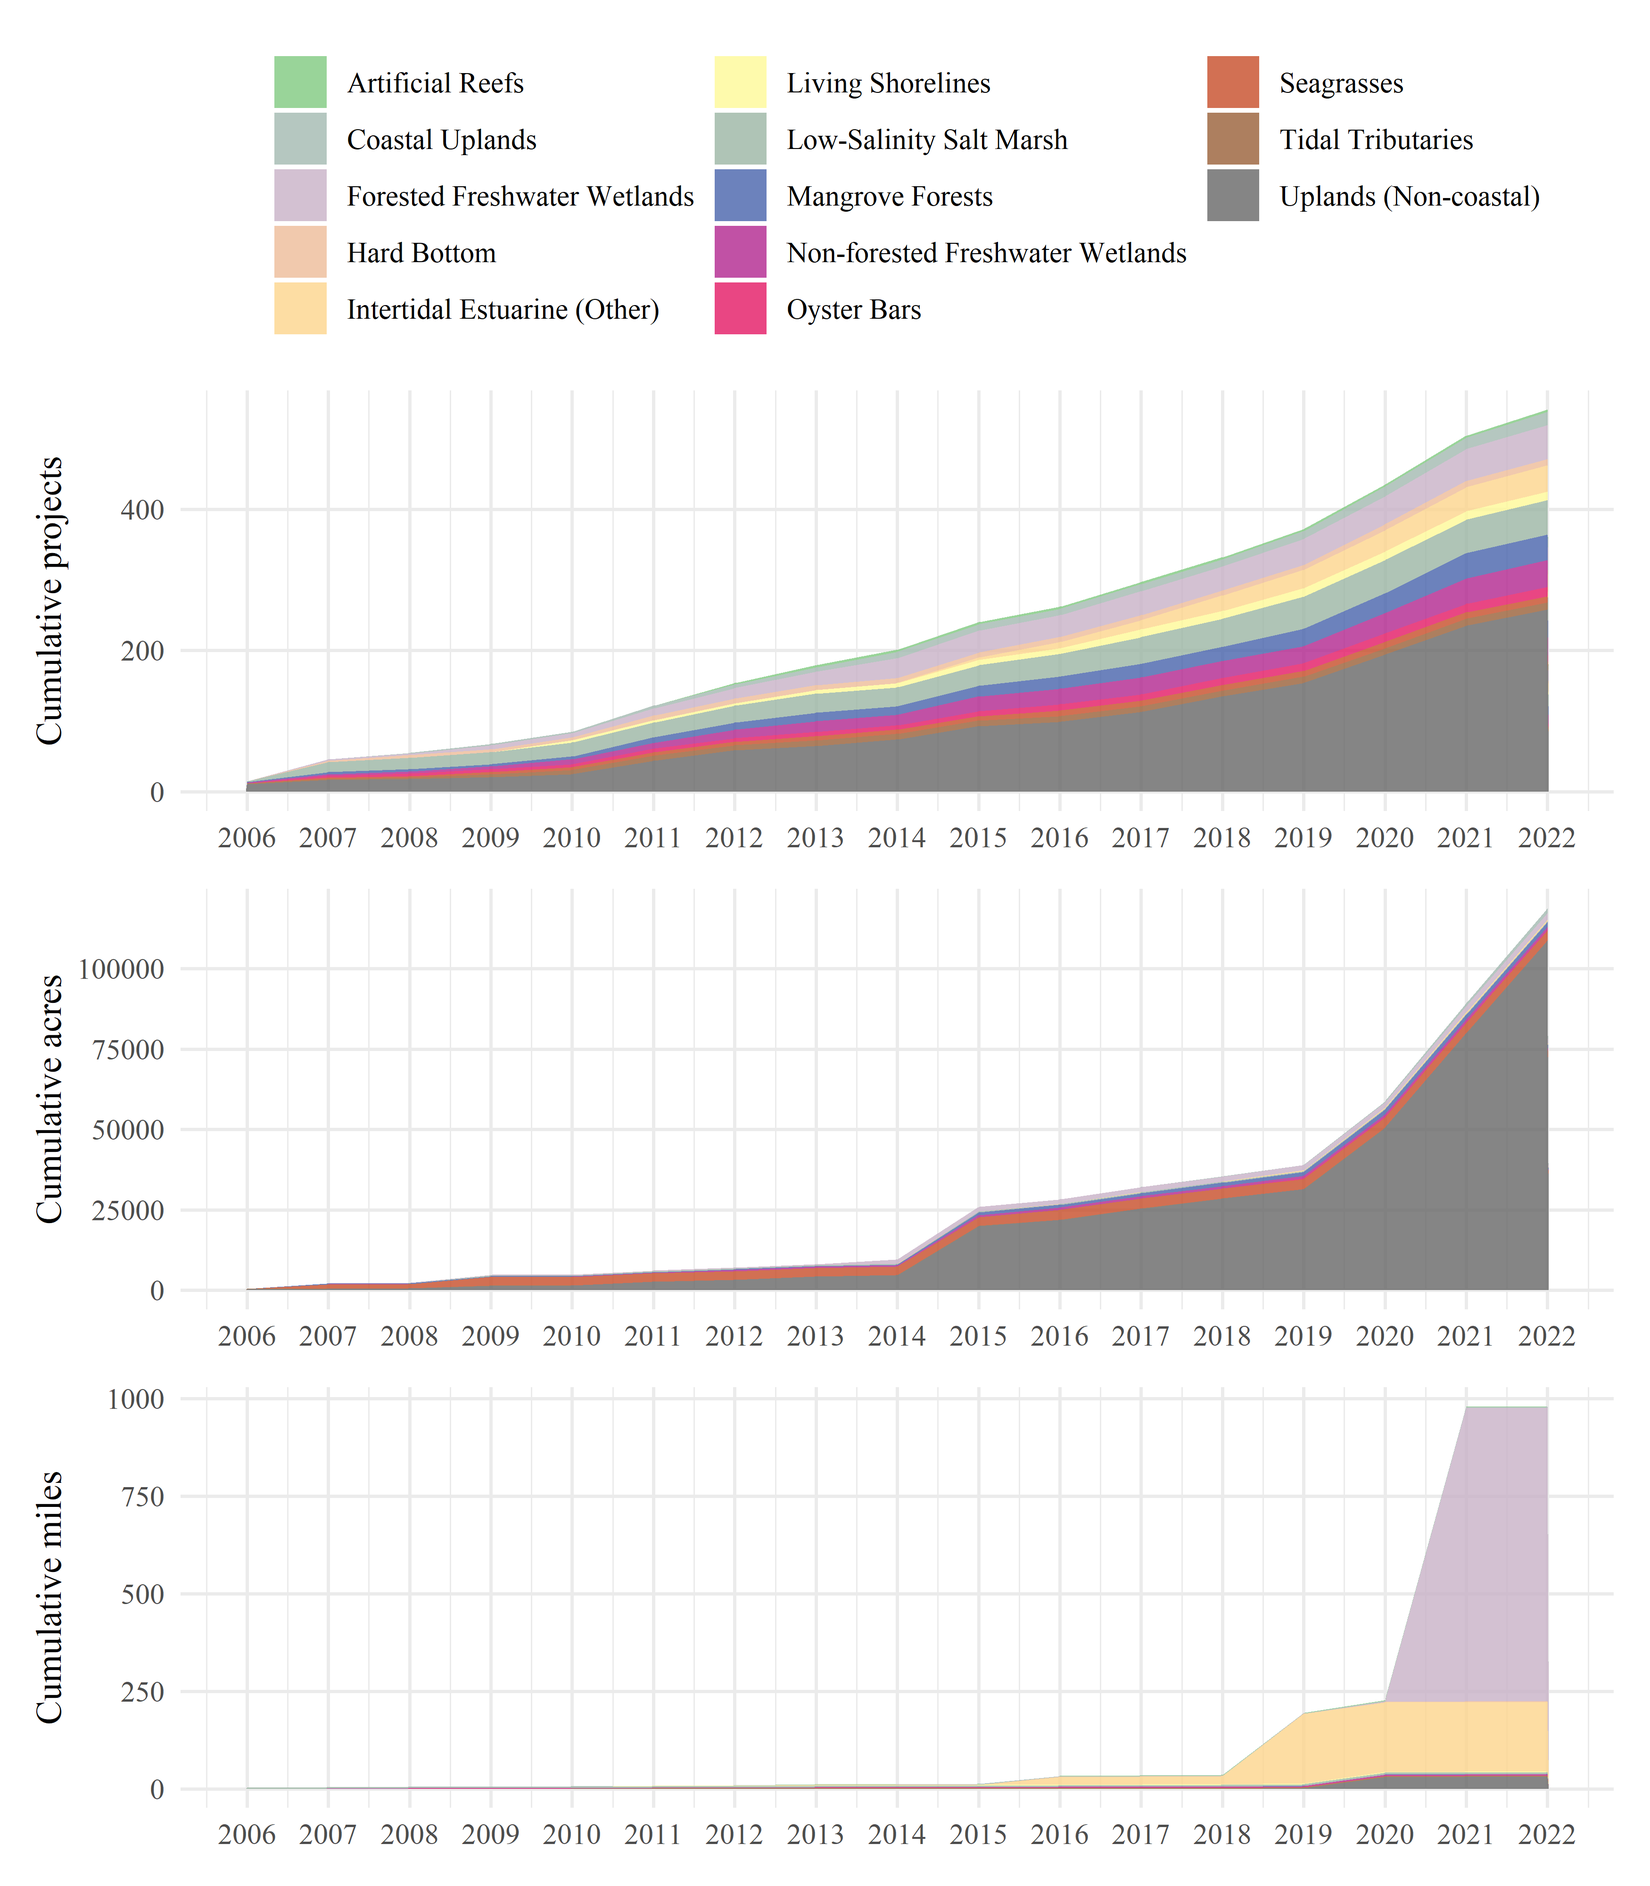
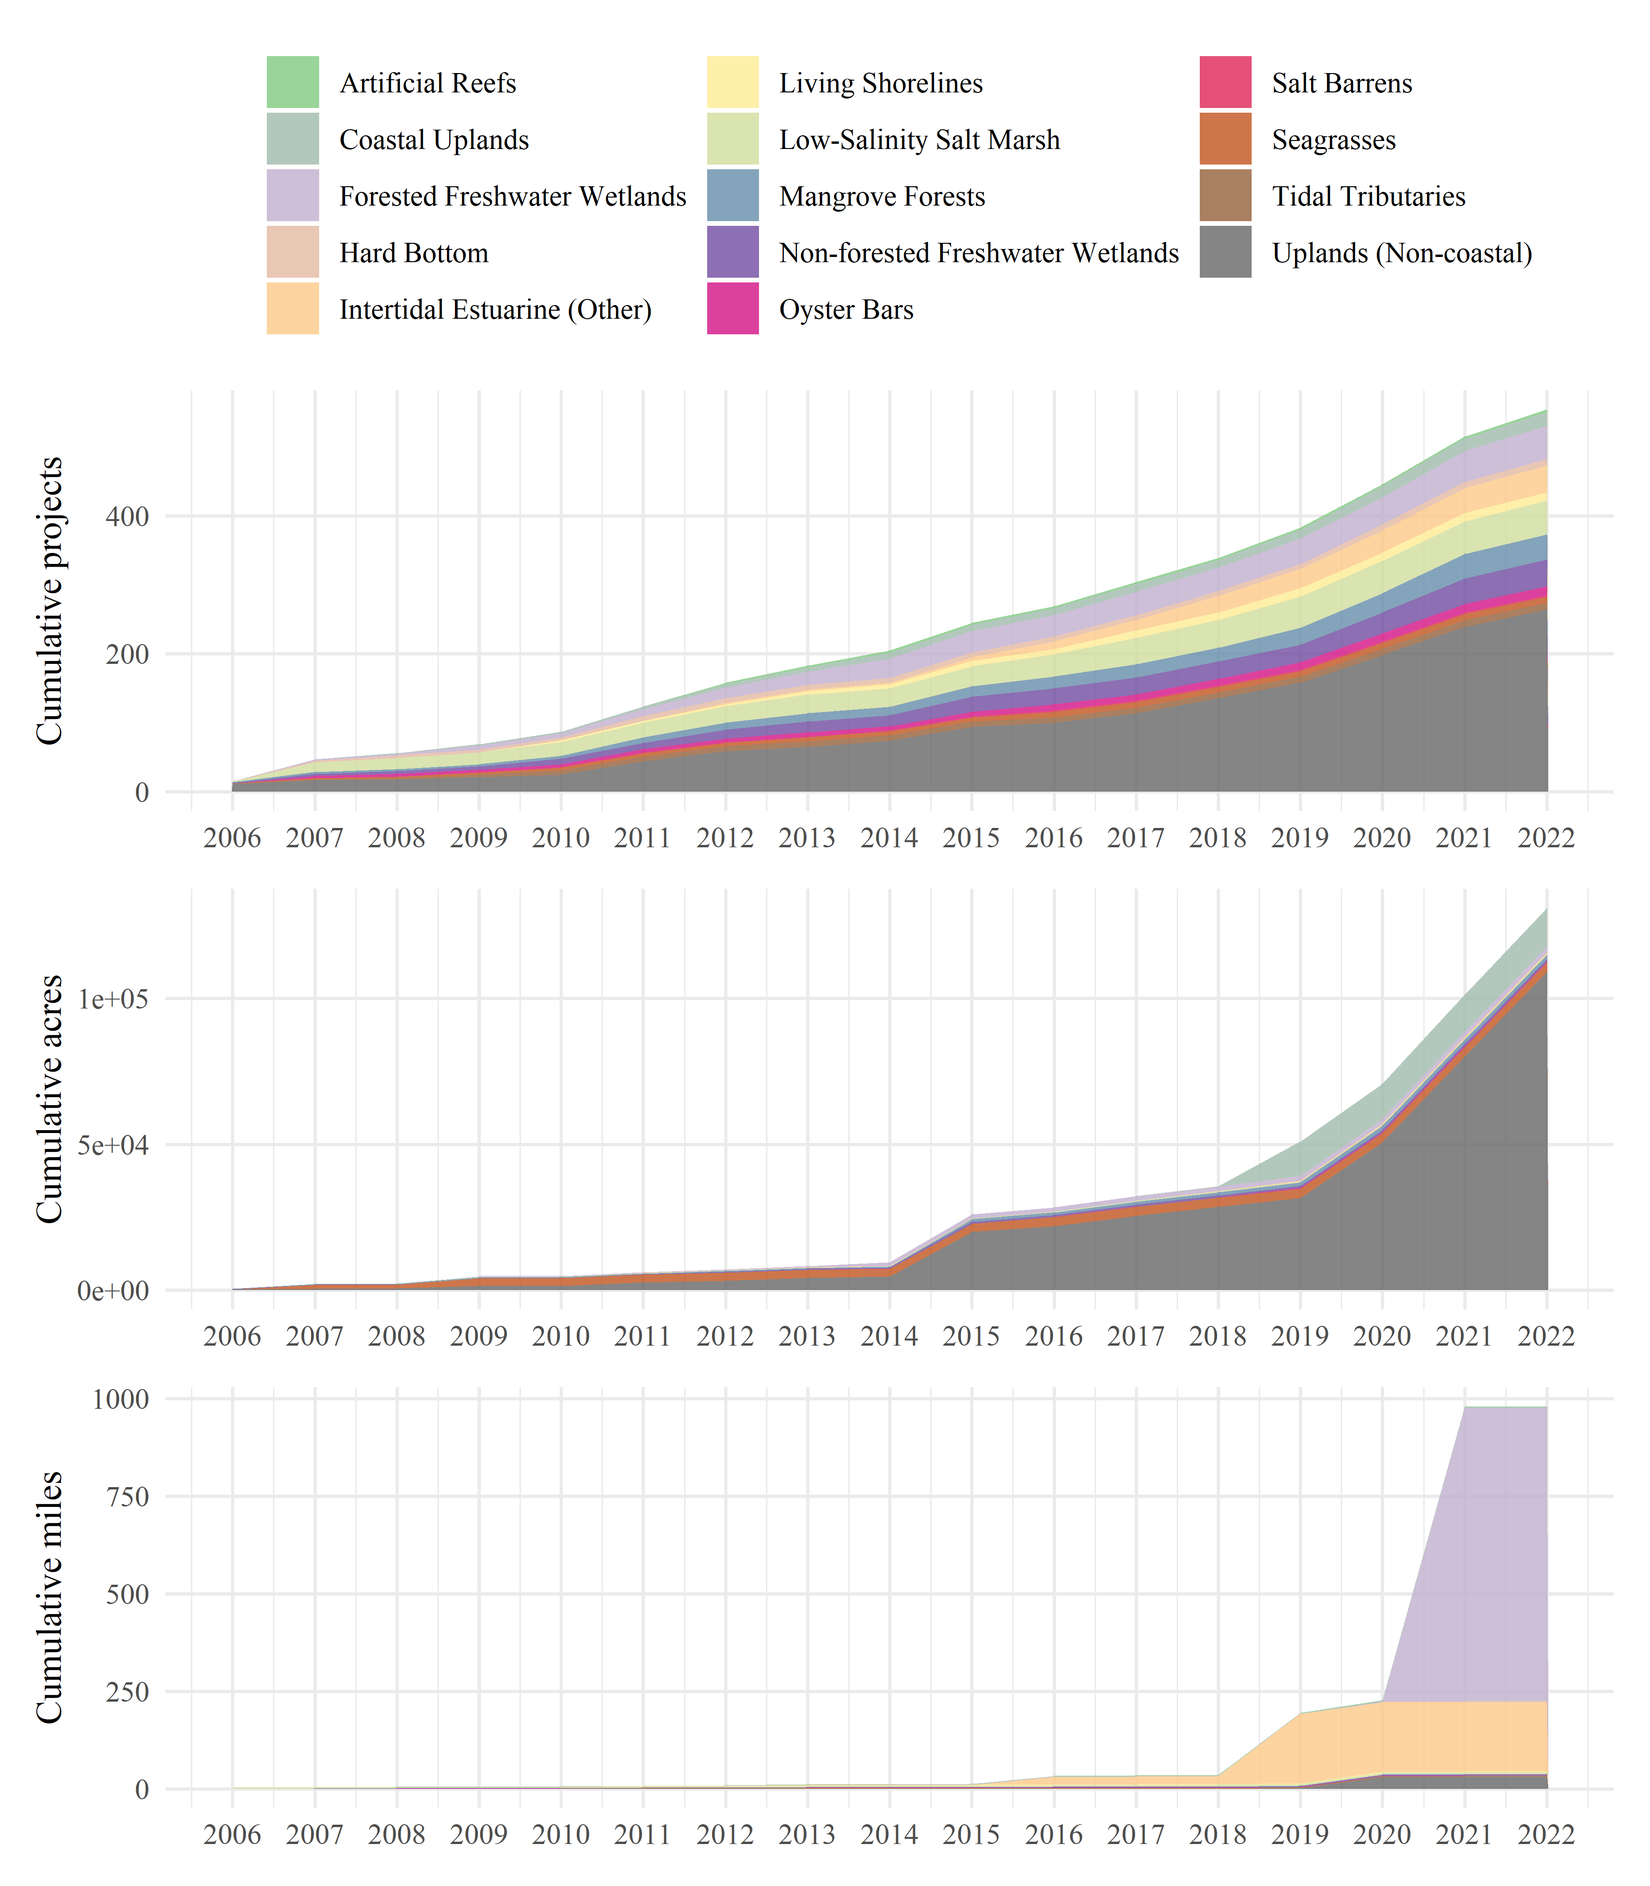
reproc with manual HMP habs

diff --git a/docs/summaries.html b/docs/summaries.html
@@ -7,7 +7,7 @@
 <meta name="viewport" content="width=device-width, initial-scale=1.0, user-scalable=yes">
 
 <meta name="author" content="Dr.&nbsp;Marcus Beck, mbeck@tbep.org">
-<meta name="dcterms.date" content="2022-12-09">
+<meta name="dcterms.date" content="2022-12-11">
 
 <title>GPRA summary</title>
 <style>
@@ -83,7 +83,7 @@ ul.task-list li input[type="checkbox"] {
     <div>
     <div class="quarto-title-meta-heading">Published</div>
     <div class="quarto-title-meta-contents">
-      <p class="date">December 9, 2022</p>
+      <p class="date">December 11, 2022</p>
     </div>
   </div>
   
@@ -101,8 +101,8 @@ ul.task-list li input[type="checkbox"] {
 <div class="cell-output-display">
 
 <h5 class="title anchored">Restoration and enhancement projects in Tampa Bay (2006-2022)</h5>
-<div id="htmlwidget-641e03565ba2912d7f08" class="reactable html-widget" style="width:auto;height:auto;"></div>
-<script type="application/json" data-for="htmlwidget-641e03565ba2912d7f08">{"x":{"tag":{"name":"Reactable","attribs":{"data":{"Category":["Artificial Reefs","Coastal Uplands","Forested Freshwater Wetlands","Hard Bottom","Intertidal Estuarine (Other)","Living Shorelines","Low-Salinity Salt Marsh","Mangrove Forests","Non-forested Freshwater Wetlands","Oyster Bars","Seagrasses","Tidal Tributaries","Uplands (Non-coastal)","Mix/undocumented"],"tot":[3,19,48,9,37,12,49,36,38,13,9,10,258,19],"Restoration, Acres":[0,929.65,1732.79,23.18,434.12,1.18,297.76,1229.51,836.99,300.83,3097.1,53.1,75258.81,11993.82],"Restoration, Miles":[0.599431818181818,2.13920454545455,752.221590909091,1.32859848484848,178.317007575758,1.72272727272727,4.85416666666667,1.08371212121212,2.83583333333333,0.79592803030303,0.788257575757576,1.57765151515152,30.5416666666667,0.201439393939394],"Enhancement, Acres":[0,580,302.34,0,0.5,0,0,10,52.37,0,0,0,33553.55,72],"Enhancement, Miles":[0,0,0,0,0.0284090909090909,0,0,0,0,0,0,0,0,0]},"columns":[{"id":"Category","name":"Habitat","type":"character","resizable":true,"format":{"cell":{"digits":0,"separators":true},"aggregated":{"digits":0,"separators":true}},"footer":"Total","minWidth":200,"style":{"fontSize":14,"fontFamily":"roboto"},"headerStyle":{"fontSize":14,"fontFamily":"roboto"},"footerStyle":{"fontWeight":"bold","fontSize":14,"fontFamily":"roboto"},"className":"sticky left-col-1-bord","headerClassName":"sticky left-col-1-bord","footerClassName":"sticky left-col-1-bord"},{"id":"tot","name":"Total projects","type":"numeric","resizable":true,"format":{"cell":{"digits":0,"separators":true},"aggregated":{"digits":0,"separators":true}},"footer":"560","minWidth":120,"style":{"fontSize":14,"fontFamily":"roboto"},"headerStyle":{"fontSize":14,"fontFamily":"roboto"},"footerStyle":{"fontWeight":"bold","fontSize":14,"fontFamily":"roboto"}},{"id":"Restoration, Acres","name":"Restoration, Acres","type":"numeric","resizable":true,"format":{"cell":{"digits":0,"separators":true},"aggregated":{"digits":0,"separators":true}},"footer":"96,189","minWidth":150,"style":{"fontSize":14,"fontFamily":"roboto"},"headerStyle":{"fontSize":14,"fontFamily":"roboto"},"footerStyle":{"fontWeight":"bold","fontSize":14,"fontFamily":"roboto"}},{"id":"Restoration, Miles","name":"Restoration, Miles","type":"numeric","resizable":true,"format":{"cell":{"digits":0,"separators":true},"aggregated":{"digits":0,"separators":true}},"footer":"979","minWidth":150,"style":{"fontSize":14,"fontFamily":"roboto"},"headerStyle":{"fontSize":14,"fontFamily":"roboto"},"footerStyle":{"fontWeight":"bold","fontSize":14,"fontFamily":"roboto"}},{"id":"Enhancement, Acres","name":"Enhancement, Acres","type":"numeric","resizable":true,"format":{"cell":{"digits":0,"separators":true},"aggregated":{"digits":0,"separators":true}},"footer":"34,571","minWidth":150,"style":{"fontSize":14,"fontFamily":"roboto"},"headerStyle":{"fontSize":14,"fontFamily":"roboto"},"footerStyle":{"fontWeight":"bold","fontSize":14,"fontFamily":"roboto"}},{"id":"Enhancement, Miles","name":"Enhancement, Miles","type":"numeric","resizable":true,"format":{"cell":{"digits":0,"separators":true},"aggregated":{"digits":0,"separators":true}},"footer":"0","minWidth":150,"style":{"fontSize":14,"fontFamily":"roboto"},"headerStyle":{"fontSize":14,"fontFamily":"roboto"},"footerStyle":{"fontWeight":"bold","fontSize":14,"fontFamily":"roboto"}}],"defaultPageSize":14,"showPageSizeOptions":false,"highlight":true,"nowrap":true,"dataKey":"22243511255cd563301aaad9b7170413"},"children":[]},"class":"reactR_markup"},"evals":[],"jsHooks":[]}</script>
+<div id="htmlwidget-8e4743606ee41f16e889" class="reactable html-widget" style="width:auto;height:auto;"></div>
+<script type="application/json" data-for="htmlwidget-8e4743606ee41f16e889">{"x":{"tag":{"name":"Reactable","attribs":{"data":{"Category":["Artificial Reefs","Coastal Uplands","Forested Freshwater Wetlands","Hard Bottom","Intertidal Estuarine (Other)","Living Shorelines","Low-Salinity Salt Marsh","Mangrove Forests","Non-forested Freshwater Wetlands","Oyster Bars","Salt Barrens","Seagrasses","Tidal Tributaries","Uplands (Non-coastal)","Mix/undocumented"],"tot":[3,21,48,9,39,12,49,36,39,13,2,9,10,264,6],"Restoration, Acres":[0,12639.65,1732.79,23.18,465.74,1.18,297.76,1229.51,867.99,300.83,31,3097.1,53.1,75413.01,36],"Restoration, Miles":[0.599431818181818,2.13920454545455,752.221590909091,1.32859848484848,178.317007575758,1.72272727272727,4.85416666666667,1.08371212121212,2.83583333333333,0.79592803030303,0,0.788257575757576,1.57765151515152,30.5416666666667,0.201439393939394],"Enhancement, Acres":[0,580,302.34,0,0.5,0,0,10,52.37,0,0,0,0,33625.55,0],"Enhancement, Miles":[0,0,0,0,0.0284090909090909,0,0,0,0,0,0,0,0,0,0]},"columns":[{"id":"Category","name":"Habitat","type":"character","resizable":true,"format":{"cell":{"digits":0,"separators":true},"aggregated":{"digits":0,"separators":true}},"footer":"Total","minWidth":200,"style":{"fontSize":14,"fontFamily":"roboto"},"headerStyle":{"fontSize":14,"fontFamily":"roboto"},"footerStyle":{"fontWeight":"bold","fontSize":14,"fontFamily":"roboto"},"className":"sticky left-col-1-bord","headerClassName":"sticky left-col-1-bord","footerClassName":"sticky left-col-1-bord"},{"id":"tot","name":"Total projects","type":"numeric","resizable":true,"format":{"cell":{"digits":0,"separators":true},"aggregated":{"digits":0,"separators":true}},"footer":"560","minWidth":120,"style":{"fontSize":14,"fontFamily":"roboto"},"headerStyle":{"fontSize":14,"fontFamily":"roboto"},"footerStyle":{"fontWeight":"bold","fontSize":14,"fontFamily":"roboto"}},{"id":"Restoration, Acres","name":"Restoration, Acres","type":"numeric","resizable":true,"format":{"cell":{"digits":0,"separators":true},"aggregated":{"digits":0,"separators":true}},"footer":"96,189","minWidth":150,"style":{"fontSize":14,"fontFamily":"roboto"},"headerStyle":{"fontSize":14,"fontFamily":"roboto"},"footerStyle":{"fontWeight":"bold","fontSize":14,"fontFamily":"roboto"}},{"id":"Restoration, Miles","name":"Restoration, Miles","type":"numeric","resizable":true,"format":{"cell":{"digits":0,"separators":true},"aggregated":{"digits":0,"separators":true}},"footer":"979","minWidth":150,"style":{"fontSize":14,"fontFamily":"roboto"},"headerStyle":{"fontSize":14,"fontFamily":"roboto"},"footerStyle":{"fontWeight":"bold","fontSize":14,"fontFamily":"roboto"}},{"id":"Enhancement, Acres","name":"Enhancement, Acres","type":"numeric","resizable":true,"format":{"cell":{"digits":0,"separators":true},"aggregated":{"digits":0,"separators":true}},"footer":"34,571","minWidth":150,"style":{"fontSize":14,"fontFamily":"roboto"},"headerStyle":{"fontSize":14,"fontFamily":"roboto"},"footerStyle":{"fontWeight":"bold","fontSize":14,"fontFamily":"roboto"}},{"id":"Enhancement, Miles","name":"Enhancement, Miles","type":"numeric","resizable":true,"format":{"cell":{"digits":0,"separators":true},"aggregated":{"digits":0,"separators":true}},"footer":"0","minWidth":150,"style":{"fontSize":14,"fontFamily":"roboto"},"headerStyle":{"fontSize":14,"fontFamily":"roboto"},"footerStyle":{"fontWeight":"bold","fontSize":14,"fontFamily":"roboto"}}],"defaultPageSize":15,"showPageSizeOptions":false,"highlight":true,"nowrap":true,"dataKey":"6718bb4f8e5fcefc56fa35773540316c"},"children":[]},"class":"reactR_markup"},"evals":[],"jsHooks":[]}</script>
 </div>
 </div>
 <p><br></p>
@@ -110,8 +110,8 @@ ul.task-list li input[type="checkbox"] {
 <div class="cell-output-display">
 
 <h5 class="title anchored">Restoration and enhancement projects in Tampa Bay (2022)</h5>
-<div id="htmlwidget-a8fa41793ca9a401d016" class="reactable html-widget" style="width:auto;height:auto;"></div>
-<script type="application/json" data-for="htmlwidget-a8fa41793ca9a401d016">{"x":{"tag":{"name":"Reactable","attribs":{"data":{"Category":["Artificial Reefs","Coastal Uplands","Forested Freshwater Wetlands","Hard Bottom","Intertidal Estuarine (Other)","Living Shorelines","Low-Salinity Salt Marsh","Mangrove Forests","Non-forested Freshwater Wetlands","Oyster Bars","Seagrasses","Tidal Tributaries","Uplands (Non-coastal)","Mix/undocumented"],"tot":[0,3,3,0,3,0,2,0,2,1,0,0,23,2],"Restoration, Acres":[0,0.5,0.05,0,0.64,0,0.05,0,0,0,0,0,1.25,0],"Restoration, Miles":[0,0,0,0,0,0,0.0852272727272727,0,0.0284090909090909,0.148011363636364,0,0,0,0],"Enhancement, Acres":[0,580,124,0,0,0,0,0,20,0,0,0,28848.95,72],"Enhancement, Miles":[0,0,0,0,0,0,0,0,0,0,0,0,0,0]},"columns":[{"id":"Category","name":"Habitat","type":"character","resizable":true,"format":{"cell":{"digits":0,"separators":true},"aggregated":{"digits":0,"separators":true}},"footer":"Total","minWidth":200,"style":{"fontSize":14,"fontFamily":"roboto"},"headerStyle":{"fontSize":14,"fontFamily":"roboto"},"footerStyle":{"fontWeight":"bold","fontSize":14,"fontFamily":"roboto"},"className":"sticky left-col-1-bord","headerClassName":"sticky left-col-1-bord","footerClassName":"sticky left-col-1-bord"},{"id":"tot","name":"Total projects","type":"numeric","resizable":true,"format":{"cell":{"digits":0,"separators":true},"aggregated":{"digits":0,"separators":true}},"footer":"39","minWidth":120,"style":{"fontSize":14,"fontFamily":"roboto"},"headerStyle":{"fontSize":14,"fontFamily":"roboto"},"footerStyle":{"fontWeight":"bold","fontSize":14,"fontFamily":"roboto"}},{"id":"Restoration, Acres","name":"Restoration, Acres","type":"numeric","resizable":true,"format":{"cell":{"digits":0,"separators":true},"aggregated":{"digits":0,"separators":true}},"footer":"2","minWidth":150,"style":{"fontSize":14,"fontFamily":"roboto"},"headerStyle":{"fontSize":14,"fontFamily":"roboto"},"footerStyle":{"fontWeight":"bold","fontSize":14,"fontFamily":"roboto"}},{"id":"Restoration, Miles","name":"Restoration, Miles","type":"numeric","resizable":true,"format":{"cell":{"digits":0,"separators":true},"aggregated":{"digits":0,"separators":true}},"footer":"0","minWidth":150,"style":{"fontSize":14,"fontFamily":"roboto"},"headerStyle":{"fontSize":14,"fontFamily":"roboto"},"footerStyle":{"fontWeight":"bold","fontSize":14,"fontFamily":"roboto"}},{"id":"Enhancement, Acres","name":"Enhancement, Acres","type":"numeric","resizable":true,"format":{"cell":{"digits":0,"separators":true},"aggregated":{"digits":0,"separators":true}},"footer":"29,645","minWidth":150,"style":{"fontSize":14,"fontFamily":"roboto"},"headerStyle":{"fontSize":14,"fontFamily":"roboto"},"footerStyle":{"fontWeight":"bold","fontSize":14,"fontFamily":"roboto"}},{"id":"Enhancement, Miles","name":"Enhancement, Miles","type":"numeric","resizable":true,"format":{"cell":{"digits":0,"separators":true},"aggregated":{"digits":0,"separators":true}},"footer":"0","minWidth":150,"style":{"fontSize":14,"fontFamily":"roboto"},"headerStyle":{"fontSize":14,"fontFamily":"roboto"},"footerStyle":{"fontWeight":"bold","fontSize":14,"fontFamily":"roboto"}}],"defaultPageSize":14,"showPageSizeOptions":false,"highlight":true,"nowrap":true,"dataKey":"40ec7f587f4343864278c12c9a3f75e8"},"children":[]},"class":"reactR_markup"},"evals":[],"jsHooks":[]}</script>
+<div id="htmlwidget-eb6b3e5aab0a4fd4153e" class="reactable html-widget" style="width:auto;height:auto;"></div>
+<script type="application/json" data-for="htmlwidget-eb6b3e5aab0a4fd4153e">{"x":{"tag":{"name":"Reactable","attribs":{"data":{"Category":["Artificial Reefs","Coastal Uplands","Forested Freshwater Wetlands","Hard Bottom","Intertidal Estuarine (Other)","Living Shorelines","Low-Salinity Salt Marsh","Mangrove Forests","Non-forested Freshwater Wetlands","Oyster Bars","Salt Barrens","Seagrasses","Tidal Tributaries","Uplands (Non-coastal)","Mix/undocumented"],"tot":[0,3,3,0,3,0,2,0,2,1,0,0,0,25,0],"Restoration, Acres":[0,0.5,0.05,0,0.64,0,0.05,0,0,0,0,0,0,1.25,0],"Restoration, Miles":[0,0,0,0,0,0,0.0852272727272727,0,0.0284090909090909,0.148011363636364,0,0,0,0,0],"Enhancement, Acres":[0,580,124,0,0,0,0,0,20,0,0,0,0,28920.95,0],"Enhancement, Miles":[0,0,0,0,0,0,0,0,0,0,0,0,0,0,0]},"columns":[{"id":"Category","name":"Habitat","type":"character","resizable":true,"format":{"cell":{"digits":0,"separators":true},"aggregated":{"digits":0,"separators":true}},"footer":"Total","minWidth":200,"style":{"fontSize":14,"fontFamily":"roboto"},"headerStyle":{"fontSize":14,"fontFamily":"roboto"},"footerStyle":{"fontWeight":"bold","fontSize":14,"fontFamily":"roboto"},"className":"sticky left-col-1-bord","headerClassName":"sticky left-col-1-bord","footerClassName":"sticky left-col-1-bord"},{"id":"tot","name":"Total projects","type":"numeric","resizable":true,"format":{"cell":{"digits":0,"separators":true},"aggregated":{"digits":0,"separators":true}},"footer":"39","minWidth":120,"style":{"fontSize":14,"fontFamily":"roboto"},"headerStyle":{"fontSize":14,"fontFamily":"roboto"},"footerStyle":{"fontWeight":"bold","fontSize":14,"fontFamily":"roboto"}},{"id":"Restoration, Acres","name":"Restoration, Acres","type":"numeric","resizable":true,"format":{"cell":{"digits":0,"separators":true},"aggregated":{"digits":0,"separators":true}},"footer":"2","minWidth":150,"style":{"fontSize":14,"fontFamily":"roboto"},"headerStyle":{"fontSize":14,"fontFamily":"roboto"},"footerStyle":{"fontWeight":"bold","fontSize":14,"fontFamily":"roboto"}},{"id":"Restoration, Miles","name":"Restoration, Miles","type":"numeric","resizable":true,"format":{"cell":{"digits":0,"separators":true},"aggregated":{"digits":0,"separators":true}},"footer":"0","minWidth":150,"style":{"fontSize":14,"fontFamily":"roboto"},"headerStyle":{"fontSize":14,"fontFamily":"roboto"},"footerStyle":{"fontWeight":"bold","fontSize":14,"fontFamily":"roboto"}},{"id":"Enhancement, Acres","name":"Enhancement, Acres","type":"numeric","resizable":true,"format":{"cell":{"digits":0,"separators":true},"aggregated":{"digits":0,"separators":true}},"footer":"29,645","minWidth":150,"style":{"fontSize":14,"fontFamily":"roboto"},"headerStyle":{"fontSize":14,"fontFamily":"roboto"},"footerStyle":{"fontWeight":"bold","fontSize":14,"fontFamily":"roboto"}},{"id":"Enhancement, Miles","name":"Enhancement, Miles","type":"numeric","resizable":true,"format":{"cell":{"digits":0,"separators":true},"aggregated":{"digits":0,"separators":true}},"footer":"0","minWidth":150,"style":{"fontSize":14,"fontFamily":"roboto"},"headerStyle":{"fontSize":14,"fontFamily":"roboto"},"footerStyle":{"fontWeight":"bold","fontSize":14,"fontFamily":"roboto"}}],"defaultPageSize":15,"showPageSizeOptions":false,"highlight":true,"nowrap":true,"dataKey":"0d06f0883b141da50c887df8e35d3a1b"},"children":[]},"class":"reactR_markup"},"evals":[],"jsHooks":[]}</script>
 </div>
 </div>
 </div>
@@ -355,7 +355,7 @@ window.document.addEventListener("DOMContentLoaded", function (event) {
 });
 </script>
 </div> <!-- /content -->
-<script>var lightboxQuarto = GLightbox({"closeEffect":"zoom","selector":".lightbox","openEffect":"zoom","loop":true,"descPosition":"bottom"});</script>
+<script>var lightboxQuarto = GLightbox({"descPosition":"bottom","selector":".lightbox","loop":true,"closeEffect":"zoom","openEffect":"zoom"});</script>
 
 
 
